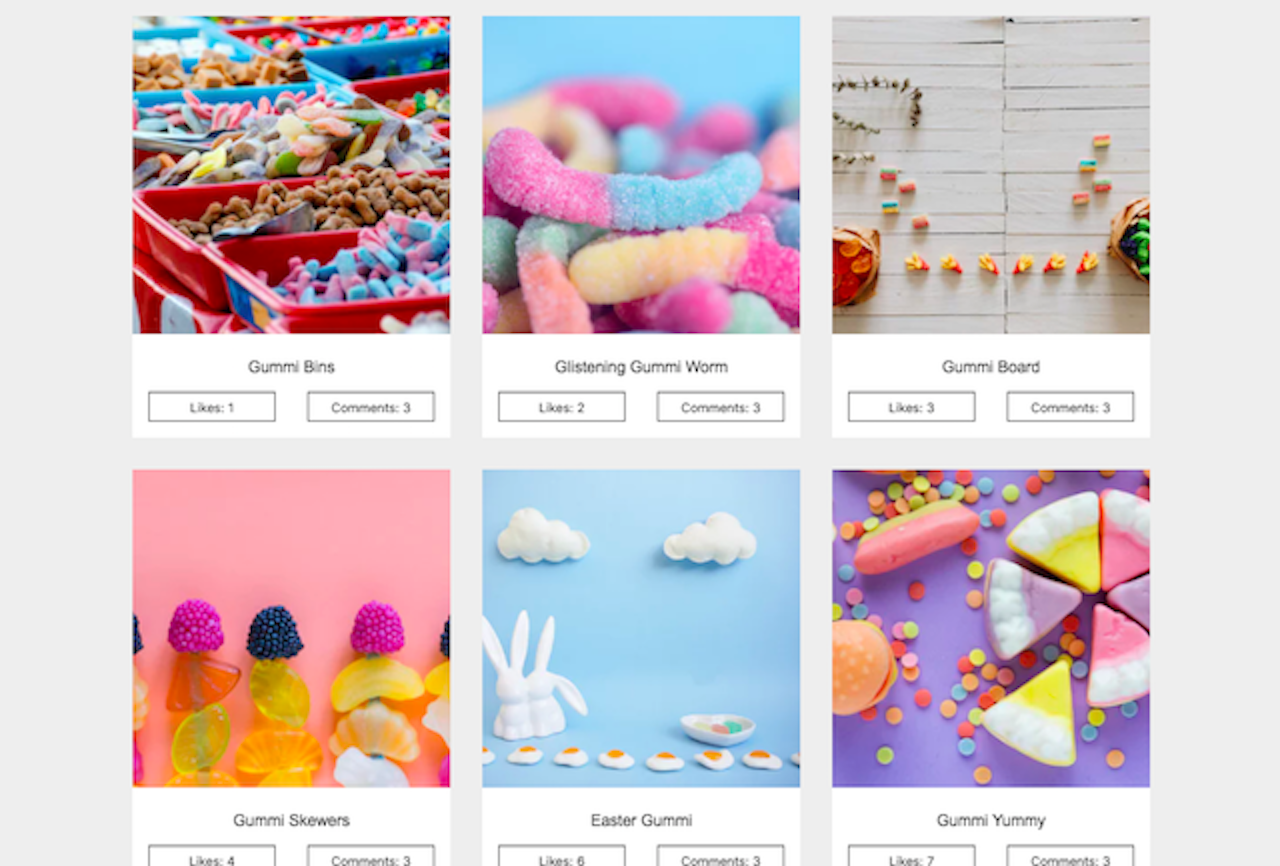
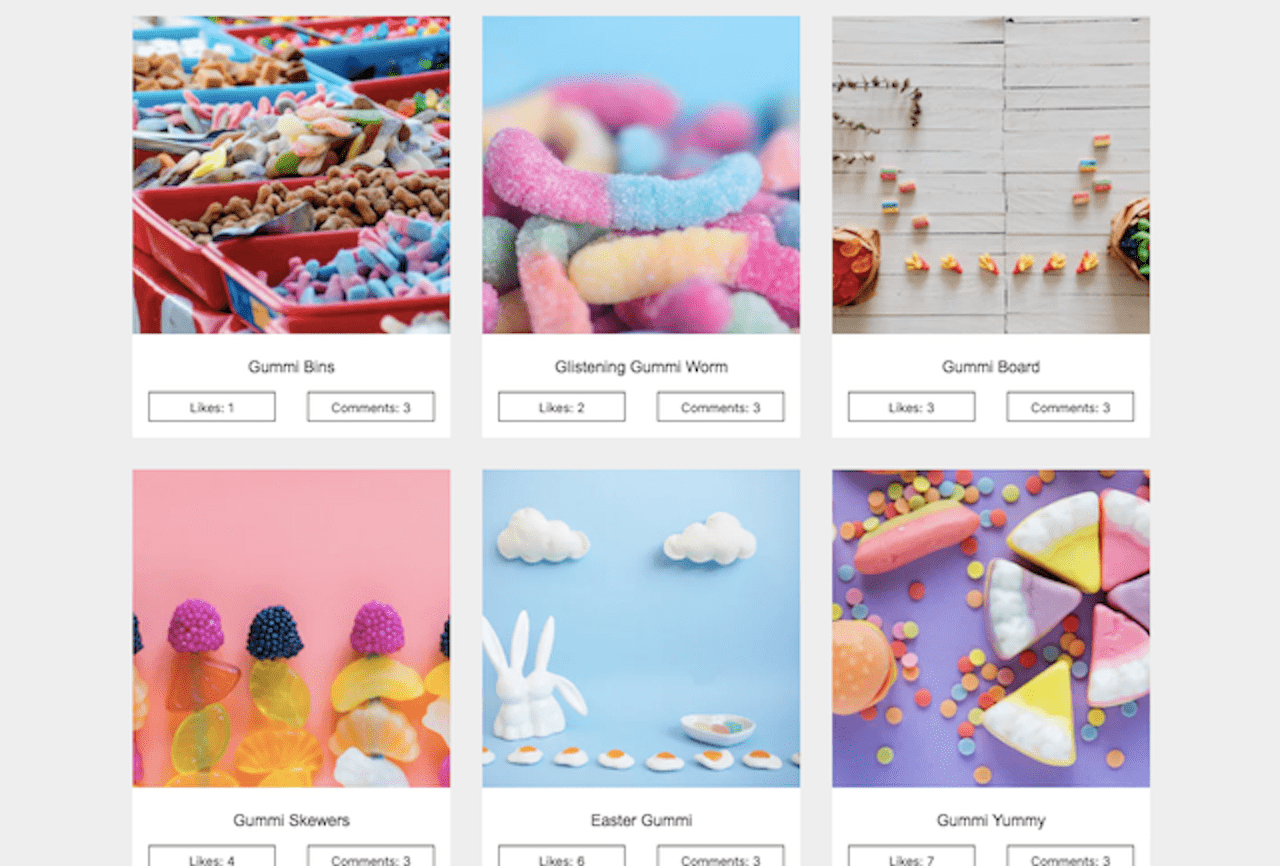
Reduced images.  Added color addiction project.

diff --git a/index.html b/index.html
@@ -30,6 +30,9 @@
         <li>
           <a href="#contact" class="nav-link">Contact</a>
         </li>
+        <li>
+          <a href="./files/ian-gornall-resume.pdf" class="nav-link-direct" target="_blank">Résumé</a>
+        </li>
       </ul>
     </nav>
   </header>
@@ -40,7 +43,11 @@
             alt="portrait">
         <div class="about-text">
           <h1 class="about-heading">Hi, I'm Ian Gornall.</h1>
-          <p class="about-description">I am a software engineer. I design and build apps at Digital Crafts.</p>
+          <p class="about-description">I am a software engineer.<br>
+          As a teacher, I used apps to drive instruction.<br>
+          I thought it would be fun to build them.<br>
+          Now, I am learning how at DigitalCrafts.<br>
+          I enjoy running and tennis.</p>
           <hr class="divider">
           <div class="about-socialIcons">
             <a class="about-link" href="https://www.linkedin.com/in/ian-gornall-b65720a9/" target="_blank">
@@ -57,6 +64,9 @@
             </a>
             <a class="about-link" href="mailto:ian.gornall@gmail.com" target="_blank">
               <i class="fas fa-envelope"></i>
+            </a>
+            <a class="about-link" href="./files/ian-gornall-resume.pdf" target="_blank">
+              <i class="fas fa-file-alt"></i>
             </a>
           </div>
         </div>
@@ -92,22 +102,22 @@
         <h3 class="footer1-heading">About</h3>
         <p>Portfolio made with plain...</p>
         <div class="footer1-devicons">
-          <i class="devicon-html5-plain"></i>
-          <i class="devicon-css3-plain"></i>
-          <i class="devicon-javascript-plain"</i></i>
+          <i class="devicon devicon-html5-plain"></i>
+          <i class="devicon devicon-css3-plain"></i>
+          <i class="devicon devicon-javascript-plain"</i></i>
         </div>
       </div>
       <div class="footer1-box">
         <h3 class="footer1-heading">Dev Tools</h3>
         <p>Projects made with...</p>
         <div class="footer1-devicons">
-          <i class="devicon-amazonwebservices-original"></i>
-          <i class="devicon-express-original"></i>
-          <i class="devicon-git-plain"></i>
-          <i class="devicon-nodejs-plain"></i>
-          <i class="devicon-postgresql-plain"></i>
-          <i class="devicon-python-plain"></i>
-          <i class="devicon-react-original"></i>
+          <i class="devicon devicon-amazonwebservices-original"></i>
+          <i class="devicon devicon-express-original"></i>
+          <i class="devicon devicon-git-plain"></i>
+          <i class="devicon devicon-nodejs-plain"></i>
+          <i class="devicon devicon-postgresql-plain"></i>
+          <i class="devicon devicon-python-plain"></i>
+          <i class="devicon devicon-react-original"></i>
         </div>
       </div>
     </footer>

diff --git a/css/style.css b/css/style.css
@@ -94,7 +94,7 @@ html, body {
   list-style: none;
 }
 
-.nav-link{
+.nav-link, .nav-link-direct{
   display: block;
   margin: 0.25em;
   text-decoration: none;
@@ -104,7 +104,7 @@ html, body {
   font-weight: bold;
   transition: background-color 400ms;
 }
-.nav-link:hover, .nav-link:active {
+.nav-link:hover, .nav-link:active, .nav-link-direct:hover, .nav-link-direct:active {
   background-color: var(--white-orange);
   color: var(--dk-orange);
 }
@@ -129,7 +129,6 @@ html, body {
 }
 
 .about-contents {
-  padding: 1em;
   display: flex;
   flex-wrap: wrap;
   align-items: center;
@@ -161,6 +160,7 @@ html, body {
 
 .about-description {
   padding: 0;
+  margin-top: 0;
 }
 
 .divider {
@@ -371,13 +371,30 @@ figure {
   padding: 10px;
   margin: 0;
 }
+.devicon {
+  position: relative;
+}
+.tooltip {
+  position: absolute;
+  top: 125%;
+  left: 50%;
+  font-size: 1rem;
+  font-family: 'Mina', sans-serif;
+  background-color: white;
+  color: var(--dk-orange);
+  pointer-events: none;
+  transform: translateX(-50%);
+  z-index: 1;
+  white-space: nowrap;
+  text-align: center;
+}
 
 .modal-container {
   position: absolute;
-  top: 12.5%;
-  left: 12.5%;
-  width: 75%;
-  height: 75%;
+  top: 7.5%;
+  left: 5%;
+  width: 90%;
+  height: 85%;
   background: #FFF;
 }
 .modal {
@@ -395,17 +412,14 @@ figure {
   display: flex;
   justify-content: center;
   align-items: center;
-  flex-basis: 66%;
-  height: 100%;
   background: var(--dk-blue);
+  flex-shrink: 0;
 }
 .modal-image {
   max-width: 100%;
   max-height: 100%;
 }
 .modal-text-container {
-  flex-basis: 34%;
-  height: 100%;
   background: #FFF;
   color: var(--dk-blue);
   padding: 0 1em;
@@ -540,12 +554,12 @@ figure {
   .nav-list {
     display: flex;
   }
-  .nav-link {
+  .nav-link, .nav-link-direct {
     margin-right: 5px;
     background-color: var(--lt-orange);
     color: var(--dk-orange);
   }
-  .nav-link:hover, .nav-link:active {
+  .nav-link:hover, .nav-link:active, .nav-link-direct:hover, .nav-link-direct:active {
     background-color: var(--white-orange) !important;
     color: var(--dk-orange) !important;
   }
@@ -564,6 +578,20 @@ figure {
   }
   .contact-description {
     width: 20%;
+  }
+  .modal-container {
+    top: 12.5%;
+    left: 12.5%;
+    width: 75%;
+    height: 75%;
+  }
+  .modal-image-container {
+    flex-basis: 66%;
+    height: 100%;
+  }
+  .modal-text-container {
+    flex-basis: 34%;
+    height: 100%;
   }
   .modal {
     flex-direction: row;

diff --git a/js/index.js b/js/index.js
@@ -7,7 +7,6 @@ var headerPortrait = document.querySelector('.header-portrait');
 var portrait = document.querySelector('.about-portrait');
 var scrollingLinkHandler = (event) => {
     event.preventDefault();
-    console.log(event.currentTarget.getAttribute('href'))
     scrollTransition(event.currentTarget.getAttribute('href').slice(1));
 }
 navButtons.forEach(navButton => {
@@ -59,3 +58,26 @@ function scrollTransition(destination){
         }
     },10);
 }
+
+let tooltip = document.createElement('div');
+tooltip.classList.add('tooltip');
+let createTooltip = (query, text) => {
+    let targetElement = document.querySelector(query);
+    targetElement.addEventListener('mouseover', event => {
+        tooltip.textContent = text;
+        event.currentTarget.appendChild(tooltip);
+    });
+    targetElement.addEventListener('mouseout', event => {
+        tooltip.remove();
+    });
+}
+createTooltip('.devicon-amazonwebservices-original', 'Amazon Web Services');
+createTooltip('.devicon-express-original', 'Express');
+createTooltip('.devicon-git-plain', 'Git');
+createTooltip('.devicon-nodejs-plain', 'Node.js');
+createTooltip('.devicon-postgresql-plain', 'PostgreSQL');
+createTooltip('.devicon-python-plain', 'Python');
+createTooltip('.devicon-react-original', 'React.js');
+createTooltip('.devicon-html5-plain', 'HTML5');
+createTooltip('.devicon-css3-plain', 'CSS3');
+createTooltip('.devicon-javascript-plain', 'JavaScript');

diff --git a/js/data.js b/js/data.js
@@ -30,10 +30,44 @@ var devicons = {
   jquery: {
     icon: 'devicon-jquery-plain',
     text: 'jQuery'
+  },
+  aws: {
+    icon: 'devicon-amazonwebservices-original',
+    text: 'Amazon Web Services'
+  },
+  express: {
+    icon: 'devicon-express-original',
+    text: 'Express'
+  },
+  nodejs: {
+    icon: 'devicon-nodejs-plain',
+    text: 'Node.js'
+  },
+  postgresql: {
+    icon: 'devicon-postgresql-plain',
+    text: 'PostgreSQL'
+  },
+  react: {
+    icon: 'devicon-react-original',
+    text: 'React.js'
   }
 }
 
 var projectData = [
+  { image: 'images/color-addiction.png',
+    thumbnail: 'images/color-addiction-thumb.png',
+    video: '',
+    name: 'Color Addiction',
+    links: [
+      {name: 'Live Site', src: 'http://coloraddiction.iangornall.com'},
+      {name: 'Github', src: 'https://github.com/iangornall/color-addiction'}
+    ],
+    description: ['Collaboration built on Express and PostgreSQL.', 'Personal Responsibilities:'],
+    list: ['Created routes and queries to for handling scores in database', 'Implemented interact.js drag and drop and color mixing libraries', 'Set up scoring system with timers'],
+    devicons: [
+      'nodejs', 'express', 'postgresql', 'git'
+    ]
+  },
   { image: 'images/hidden-gems.png',
     thumbnail: 'images/hidden-gems-thumb.png',
     video: '',

diff --git a/js/modal.js b/js/modal.js
@@ -71,6 +71,7 @@ projectData.forEach((project, index) => {
     modalLink.classList.add('modal-link');
     modalLink.textContent = link.name;
     modalLink.setAttribute('href', link.src);
+    modalLink.setAttribute('target', '_blank');
     modalLinks.appendChild(modalLink);
   }
   modalTextContainer.appendChild(modalLinks);
@@ -146,5 +147,3 @@ projectData.forEach((project, index) => {
 });
 
 var modals = document.querySelectorAll('.modal');
-
-console.log(modals);
